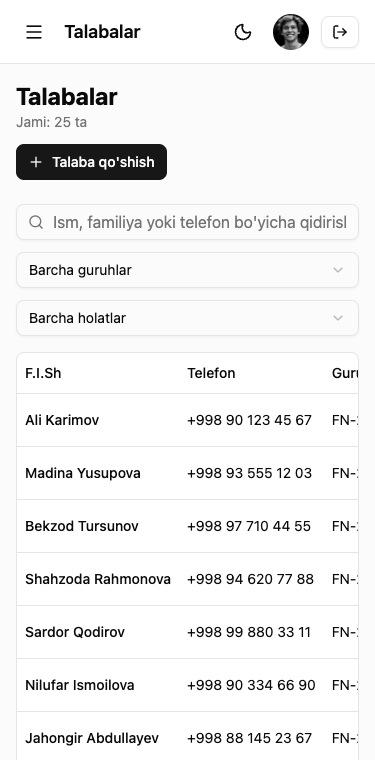
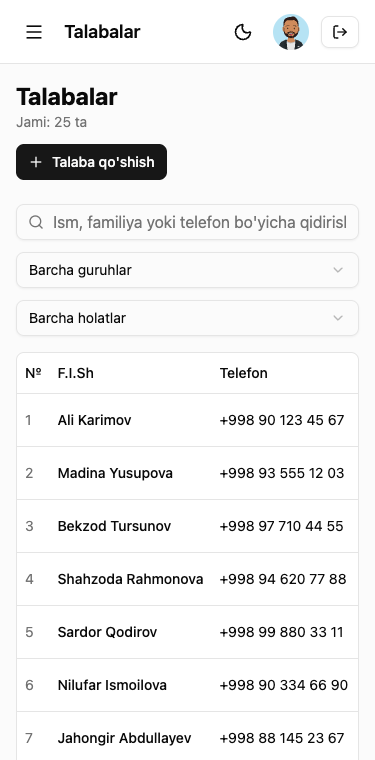
feat: talabalar jadvalida tartib raqami va yangi admin avatari

diff --git a/src/components/students/StudentsTable.jsx b/src/components/students/StudentsTable.jsx
@@ -8,7 +8,8 @@ import DebtBadge from "./DebtBadge"
 import { calcDebt } from "@/utils/debt"
 import { formatPhone } from "@/utils/format"
 
-function StudentsTable({ students, groups, payments, onEdit, onDelete }) {
+// startIndex — sahifadagi birinchi qatorning raqami (2-sahifada 11)
+function StudentsTable({ students, groups, payments, startIndex, onEdit, onDelete }) {
   const navigate = useNavigate()
 
   return (
@@ -16,6 +17,7 @@ function StudentsTable({ students, groups, payments, onEdit, onDelete }) {
       <Table>
         <TableHeader>
           <TableRow>
+            <TableHead className="w-12">№</TableHead>
             <TableHead>F.I.Sh</TableHead>
             <TableHead>Telefon</TableHead>
             <TableHead>Guruh</TableHead>
@@ -25,7 +27,7 @@ function StudentsTable({ students, groups, payments, onEdit, onDelete }) {
           </TableRow>
         </TableHeader>
         <TableBody>
-          {students.map((student) => {
+          {students.map((student, index) => {
             const group = groups.find((g) => g.id === student.groupId)
             const debt = calcDebt(student, group, payments)
 
@@ -35,6 +37,7 @@ function StudentsTable({ students, groups, payments, onEdit, onDelete }) {
                 className="cursor-pointer"
                 onClick={() => navigate(`/dashboard/students/${student.id}`)}
               >
+                <TableCell className="text-muted-foreground">{startIndex + index}</TableCell>
                 <TableCell className="font-medium">
                   {student.firstName} {student.lastName}
                 </TableCell>
@@ -68,6 +71,7 @@ StudentsTable.propTypes = {
   students: PropTypes.array.isRequired,
   groups: PropTypes.array.isRequired,
   payments: PropTypes.array.isRequired,
+  startIndex: PropTypes.number.isRequired,
   onEdit: PropTypes.func.isRequired,
   onDelete: PropTypes.func.isRequired,
 }

diff --git a/src/pages/Students.jsx b/src/pages/Students.jsx
@@ -85,11 +85,6 @@ function Students() {
     loadStudents() // ro'yxatni serverdan qayta olamiz
   }
 
-  function handleDeleted() {
-    setDeleting(null)
-    loadStudents()
-  }
-
   return (
     <div>
       <PageHeader title="Talabalar" description={`Jami: ${total} ta`}>
@@ -127,6 +122,7 @@ function Students() {
             students={students}
             groups={groups}
             payments={payments}
+            startIndex={(page - 1) * LIMIT + 1}
             onEdit={openForm}
             onDelete={setDeleting}
           />
@@ -142,7 +138,7 @@ function Students() {
         onSaved={handleSaved}
       />
 
-      <DeleteStudentDialog student={deleting} onClose={() => setDeleting(null)} onDeleted={handleDeleted} />
+      <DeleteStudentDialog student={deleting} onClose={() => setDeleting(null)} onDeleted={loadStudents} />
     </div>
   )
 }

diff --git a/src/components/students/DeleteStudentDialog.jsx b/src/components/students/DeleteStudentDialog.jsx
@@ -13,7 +13,8 @@ function DeleteStudentDialog({ student, onClose, onDeleted }) {
     try {
       await deleteStudent(student.id)
       toast.success("Talaba o'chirildi")
-      onDeleted()
+      onClose() // oynani yopamiz
+      onDeleted() // sahifa ro'yxatni qayta yuklaydi
     } catch {
       toast.error("O'chirishda xatolik yuz berdi")
     } finally {
